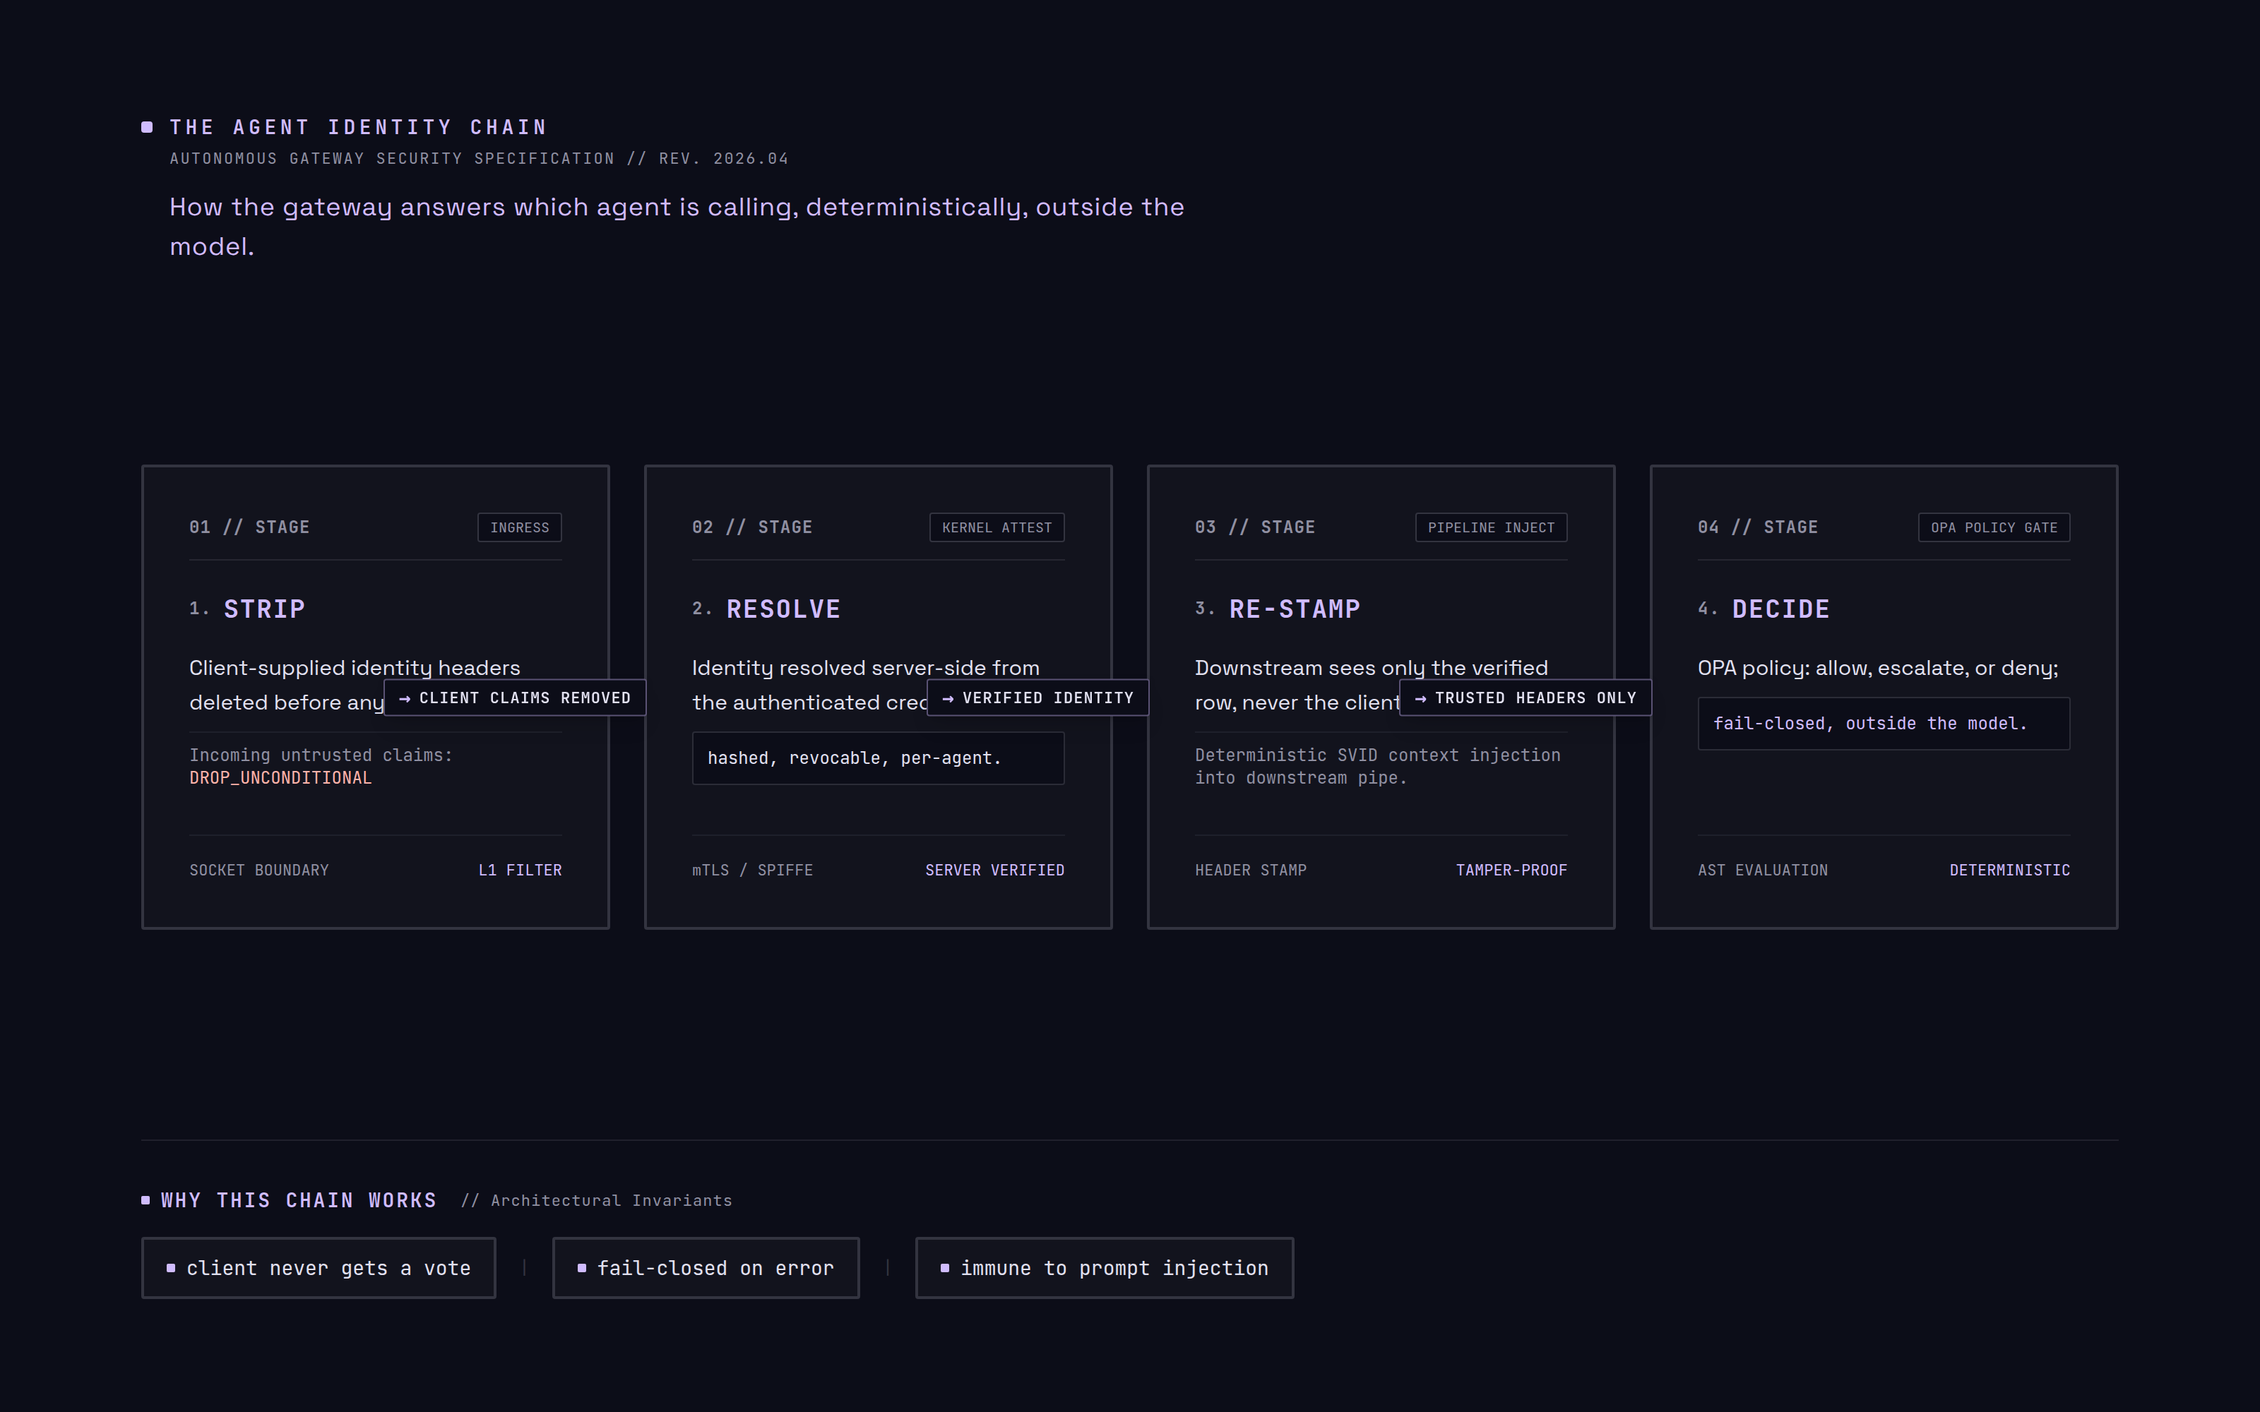
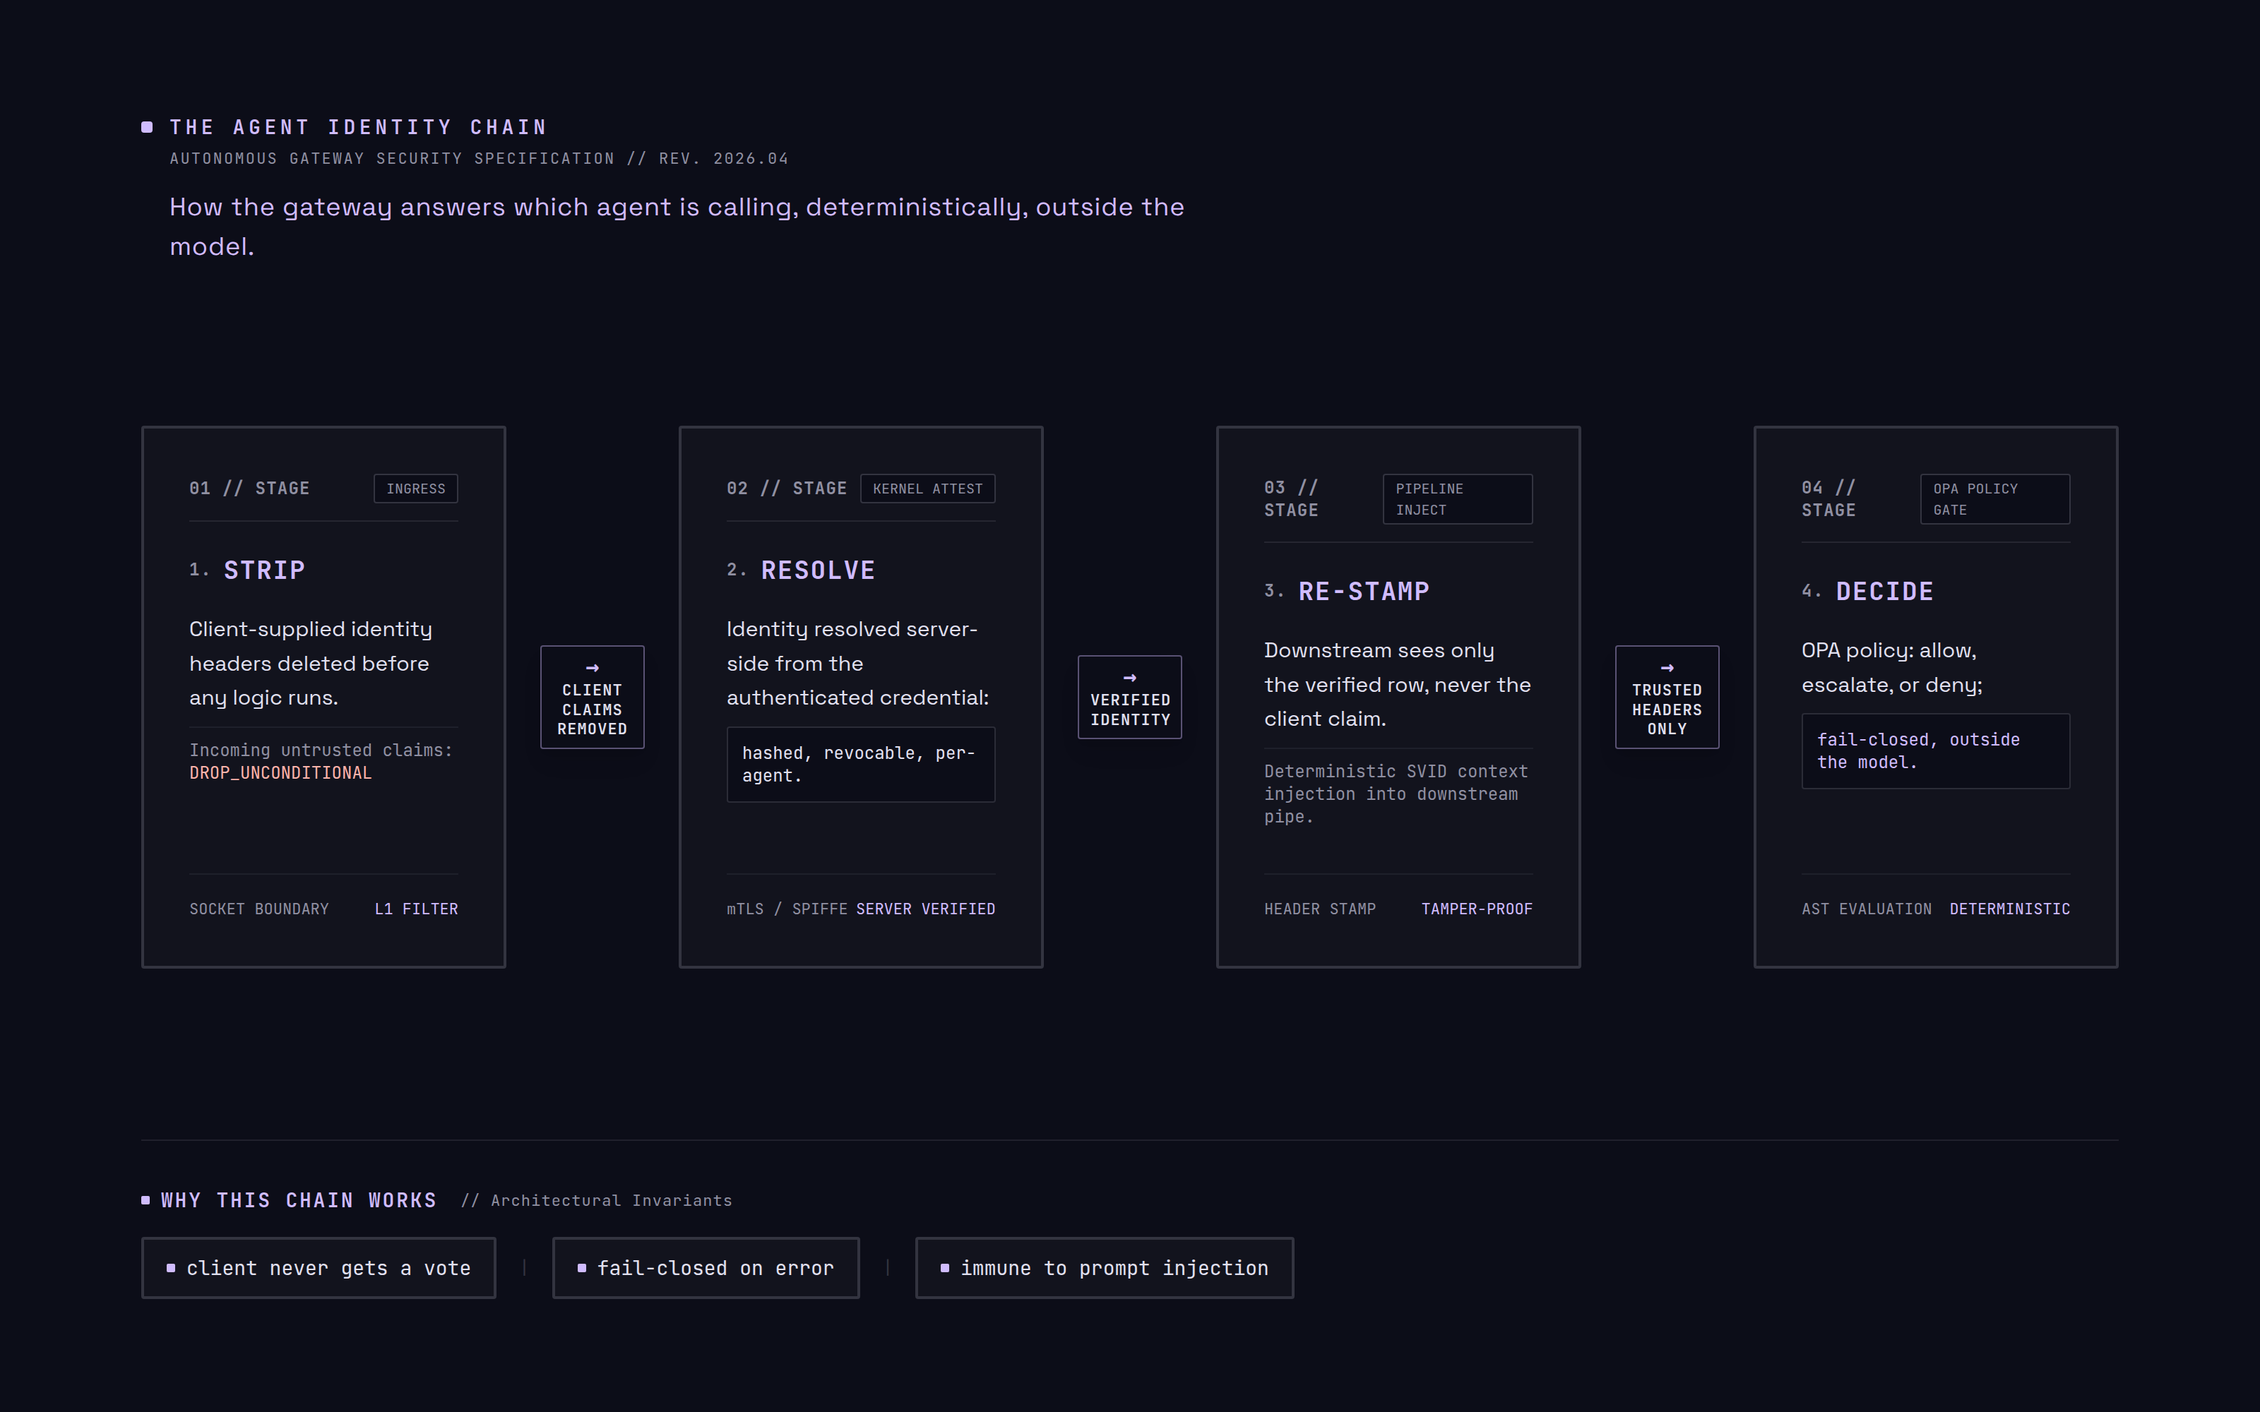
fix(agent-identity-firewalls): identity_chain restructure to 0 overlaps (unmeasured containers, flow arrows instead of absolute overlays)

diff --git a/agent-identity-firewalls/html/identity_chain.html b/agent-identity-firewalls/html/identity_chain.html
@@ -45,15 +45,15 @@
 <style>html, body { background: #0c0d18 !important; margin: 0 !important; }</style></head>
 <body class="min-h-screen bg-[#0c0d18] text-[#e2e1f1] flex flex-col justify-between p-8 md:p-14 lg:p-16 select-none box-border">
 <!-- Main Container -->
-<div class="max-w-[1400px] w-full mx-auto flex flex-col justify-between flex-1 py-4">
+<section class="max-w-[1400px] w-full mx-auto flex flex-col justify-between flex-1 py-4">
 <!-- Top Left Title -->
 <header class="mb-12">
-<div class="flex items-center gap-3">
+<section class="flex items-center gap-3">
 <span class="inline-block w-2 h-2 rounded-[2px] bg-[#d0bcff]"></span>
 <h1 class="text-xs sm:text-sm font-mono uppercase tracking-[0.2em] text-[#d0bcff] font-semibold">
           The Agent Identity Chain
         </h1>
-</div>
+</section>
 <p class="text-[11px] font-mono text-[#9090a2] mt-1 pl-5 uppercase tracking-widest">
         Autonomous Gateway Security Specification // Rev. 2026.04
       </p><p class="text-base sm:text-lg text-[#d2bbff] font-normal tracking-wide mt-3 pl-5 max-w-3xl leading-relaxed">
@@ -61,167 +61,165 @@
       </p>
 </header>
 <!-- Main Diagram Flow: 4 Stage Panels Left to Right -->
-<main class="w-full my-auto">
-<div class="grid grid-cols-1 lg:grid-cols-4 gap-4 xl:gap-6 items-stretch relative">
+<main class="w-full my-auto grid grid-cols-1 lg:grid-cols-[1fr_auto_1fr_auto_1fr_auto_1fr] gap-4 xl:gap-6 items-stretch">
 <!-- Stage 1: STRIP -->
-<div class="relative flex flex-col justify-between bg-[#12131d] border-2 border-[#333440] rounded-[2px] p-6 lg:p-7 xl:p-8 transition-all hover:border-[#d0bcff]/50 group">
-<div>
+<section class="flex flex-col justify-between bg-[#12131d] border-2 border-[#333440] rounded-[2px] p-6 lg:p-7 xl:p-8 transition-all hover:border-[#d0bcff]/50 group">
+<section>
 <!-- Step index & header -->
-<div class="flex items-center justify-between border-b border-[#333440]/60 pb-3 mb-5">
+<section class="flex items-center justify-between border-b border-[#333440]/60 pb-3 mb-5">
 <span class="font-mono text-xs font-bold text-[#9090a2] tracking-wider">01 // STAGE</span>
 <span class="font-mono text-[10px] text-[#9090a2] px-2 py-0.5 bg-[#0c0d18] border border-[#333440] rounded-[2px]">INGRESS</span>
-</div>
+</section>
 <h2 class="font-mono text-base xl:text-lg font-bold uppercase tracking-wider text-[#d0bcff] mb-4 flex items-center gap-2">
-<span class="text-xs text-[#9090a2]">1.</span> STRIP
+<small class="text-xs text-[#9090a2]">1.</small> STRIP
             </h2>
 <!-- Body lines -->
-<div class="space-y-2 text-sm xl:text-[15px] leading-relaxed text-[#e2e1f1] font-normal">
+<section class="space-y-2 text-sm xl:text-[15px] leading-relaxed text-[#e2e1f1] font-normal">
 <p>
                 Client-supplied identity headers deleted before any logic runs.
               </p>
 <p class="text-xs font-mono text-[#9090a2] pt-2 border-t border-[#333440]/40">
-                Incoming untrusted claims: <span class="text-[#ffb4ab]">DROP_UNCONDITIONAL</span>
+                Incoming untrusted claims: <small class="text-xs text-[#ffb4ab]">DROP_UNCONDITIONAL</small>
 </p>
-</div>
-</div>
+</section>
+</section>
 <!-- Bottom micro-spec badge -->
-<div class="mt-8 pt-4 border-t border-[#333440]/40 flex items-center justify-between text-[11px] font-mono text-[#9090a2]">
+<section class="mt-8 pt-4 border-t border-[#333440]/40 flex items-center justify-between text-[11px] font-mono text-[#9090a2]">
 <span>SOCKET BOUNDARY</span>
 <span class="text-[#d0bcff]">L1 FILTER</span>
-</div>
+</section>
+</section>
 <!-- Desktop Arrow Connector to next stage -->
-<div class="hidden lg:flex flex-col items-center justify-center absolute -right-6 xl:-right-7 top-1/2 -translate-y-1/2 z-30 pointer-events-none select-none drop-shadow">
-<div class="flex items-center gap-1.5 px-2.5 py-1 bg-[#0c0d18] border border-[#d0bcff]/40 rounded-[2px] shadow-lg">
-<span class="text-[#d0bcff] font-mono text-sm leading-none font-bold">→</span>
-<span class="font-mono text-[10px] xl:text-[11px] text-[#e2e1f1] uppercase tracking-wider font-semibold whitespace-nowrap">client claims removed</span>
-</div>
-</div>
-</div>
+<section class="hidden lg:flex flex-col items-center justify-center self-center pointer-events-none select-none">
+<section class="flex flex-col items-center gap-0.5 px-2 py-1.5 bg-[#0c0d18] border border-[#d0bcff]/40 rounded-[2px] shadow-lg">
+<span class="text-[#d0bcff] font-mono text-base leading-none font-bold">&#8594;</span>
+<span class="font-mono text-[10px] xl:text-[11px] text-[#e2e1f1] uppercase tracking-wider font-semibold text-center leading-tight max-w-[56px]">client claims removed</span>
+</section>
+</section>
 <!-- Stage 2: RESOLVE -->
-<div class="relative flex flex-col justify-between bg-[#12131d] border-2 border-[#333440] rounded-[2px] p-6 lg:p-7 xl:p-8 transition-all hover:border-[#d0bcff]/50 group">
-<div>
+<section class="flex flex-col justify-between bg-[#12131d] border-2 border-[#333440] rounded-[2px] p-6 lg:p-7 xl:p-8 transition-all hover:border-[#d0bcff]/50 group">
+<section>
 <!-- Step index & header -->
-<div class="flex items-center justify-between border-b border-[#333440]/60 pb-3 mb-5">
+<section class="flex items-center justify-between border-b border-[#333440]/60 pb-3 mb-5">
 <span class="font-mono text-xs font-bold text-[#9090a2] tracking-wider">02 // STAGE</span>
 <span class="font-mono text-[10px] text-[#9090a2] px-2 py-0.5 bg-[#0c0d18] border border-[#333440] rounded-[2px]">KERNEL ATTEST</span>
-</div>
+</section>
 <h2 class="font-mono text-base xl:text-lg font-bold uppercase tracking-wider text-[#d0bcff] mb-4 flex items-center gap-2">
-<span class="text-xs text-[#9090a2]">2.</span> RESOLVE
+<small class="text-xs text-[#9090a2]">2.</small> RESOLVE
             </h2>
 <!-- Body lines -->
-<div class="space-y-2 text-sm xl:text-[15px] leading-relaxed text-[#e2e1f1] font-normal">
+<section class="space-y-2 text-sm xl:text-[15px] leading-relaxed text-[#e2e1f1] font-normal">
 <p>
                 Identity resolved server-side from the authenticated credential:
               </p>
 <p class="font-mono text-xs text-[#e2e1f1] bg-[#0c0d18] p-2.5 rounded-[2px] border border-[#333440]/80">
                 hashed, revocable, per-agent.
               </p>
-</div>
-</div>
+</section>
+</section>
 <!-- Bottom micro-spec badge -->
-<div class="mt-8 pt-4 border-t border-[#333440]/40 flex items-center justify-between text-[11px] font-mono text-[#9090a2]">
+<section class="mt-8 pt-4 border-t border-[#333440]/40 flex items-center justify-between text-[11px] font-mono text-[#9090a2]">
 <span>mTLS / SPIFFE</span>
 <span class="text-[#d0bcff]">SERVER VERIFIED</span>
-</div>
+</section>
+</section>
 <!-- Desktop Arrow Connector to next stage -->
-<div class="hidden lg:flex flex-col items-center justify-center absolute -right-6 xl:-right-7 top-1/2 -translate-y-1/2 z-30 pointer-events-none select-none drop-shadow">
-<div class="flex items-center gap-1.5 px-2.5 py-1 bg-[#0c0d18] border border-[#d0bcff]/40 rounded-[2px] shadow-lg">
-<span class="text-[#d0bcff] font-mono text-sm leading-none font-bold">→</span>
-<span class="font-mono text-[10px] xl:text-[11px] text-[#e2e1f1] uppercase tracking-wider font-semibold whitespace-nowrap">verified identity</span>
-</div>
-</div>
-</div>
+<section class="hidden lg:flex flex-col items-center justify-center self-center pointer-events-none select-none">
+<section class="flex flex-col items-center gap-0.5 px-2 py-1.5 bg-[#0c0d18] border border-[#d0bcff]/40 rounded-[2px] shadow-lg">
+<span class="text-[#d0bcff] font-mono text-base leading-none font-bold">&#8594;</span>
+<span class="font-mono text-[10px] xl:text-[11px] text-[#e2e1f1] uppercase tracking-wider font-semibold text-center leading-tight max-w-[56px]">verified identity</span>
+</section>
+</section>
 <!-- Stage 3: RE-STAMP -->
-<div class="relative flex flex-col justify-between bg-[#12131d] border-2 border-[#333440] rounded-[2px] p-6 lg:p-7 xl:p-8 transition-all hover:border-[#d0bcff]/50 group">
-<div>
+<section class="flex flex-col justify-between bg-[#12131d] border-2 border-[#333440] rounded-[2px] p-6 lg:p-7 xl:p-8 transition-all hover:border-[#d0bcff]/50 group">
+<section>
 <!-- Step index & header -->
-<div class="flex items-center justify-between border-b border-[#333440]/60 pb-3 mb-5">
+<section class="flex items-center justify-between border-b border-[#333440]/60 pb-3 mb-5">
 <span class="font-mono text-xs font-bold text-[#9090a2] tracking-wider">03 // STAGE</span>
 <span class="font-mono text-[10px] text-[#9090a2] px-2 py-0.5 bg-[#0c0d18] border border-[#333440] rounded-[2px]">PIPELINE INJECT</span>
-</div>
+</section>
 <h2 class="font-mono text-base xl:text-lg font-bold uppercase tracking-wider text-[#d0bcff] mb-4 flex items-center gap-2">
-<span class="text-xs text-[#9090a2]">3.</span> RE-STAMP
+<small class="text-xs text-[#9090a2]">3.</small> RE-STAMP
             </h2>
 <!-- Body lines -->
-<div class="space-y-2 text-sm xl:text-[15px] leading-relaxed text-[#e2e1f1] font-normal">
+<section class="space-y-2 text-sm xl:text-[15px] leading-relaxed text-[#e2e1f1] font-normal">
 <p>
                 Downstream sees only the verified row, never the client claim.
               </p>
 <p class="text-xs font-mono text-[#9090a2] pt-2 border-t border-[#333440]/40">
                 Deterministic SVID context injection into downstream pipe.
               </p>
-</div>
-</div>
+</section>
+</section>
 <!-- Bottom micro-spec badge -->
-<div class="mt-8 pt-4 border-t border-[#333440]/40 flex items-center justify-between text-[11px] font-mono text-[#9090a2]">
+<section class="mt-8 pt-4 border-t border-[#333440]/40 flex items-center justify-between text-[11px] font-mono text-[#9090a2]">
 <span>HEADER STAMP</span>
 <span class="text-[#d0bcff]">TAMPER-PROOF</span>
-</div>
+</section>
+</section>
 <!-- Desktop Arrow Connector to next stage -->
-<div class="hidden lg:flex flex-col items-center justify-center absolute -right-6 xl:-right-7 top-1/2 -translate-y-1/2 z-30 pointer-events-none select-none drop-shadow">
-<div class="flex items-center gap-1.5 px-2.5 py-1 bg-[#0c0d18] border border-[#d0bcff]/40 rounded-[2px] shadow-lg">
-<span class="text-[#d0bcff] font-mono text-sm leading-none font-bold">→</span>
-<span class="font-mono text-[10px] xl:text-[11px] text-[#e2e1f1] uppercase tracking-wider font-semibold whitespace-nowrap">trusted headers only</span>
-</div>
-</div>
-</div>
+<section class="hidden lg:flex flex-col items-center justify-center self-center pointer-events-none select-none">
+<section class="flex flex-col items-center gap-0.5 px-2 py-1.5 bg-[#0c0d18] border border-[#d0bcff]/40 rounded-[2px] shadow-lg">
+<span class="text-[#d0bcff] font-mono text-base leading-none font-bold">&#8594;</span>
+<span class="font-mono text-[10px] xl:text-[11px] text-[#e2e1f1] uppercase tracking-wider font-semibold text-center leading-tight max-w-[56px]">trusted headers only</span>
+</section>
+</section>
 <!-- Stage 4: DECIDE -->
-<div class="relative flex flex-col justify-between bg-[#12131d] border-2 border-[#333440] rounded-[2px] p-6 lg:p-7 xl:p-8 transition-all hover:border-[#d0bcff]/50 group">
-<div>
+<section class="flex flex-col justify-between bg-[#12131d] border-2 border-[#333440] rounded-[2px] p-6 lg:p-7 xl:p-8 transition-all hover:border-[#d0bcff]/50 group">
+<section>
 <!-- Step index & header -->
-<div class="flex items-center justify-between border-b border-[#333440]/60 pb-3 mb-5">
+<section class="flex items-center justify-between border-b border-[#333440]/60 pb-3 mb-5">
 <span class="font-mono text-xs font-bold text-[#9090a2] tracking-wider">04 // STAGE</span>
 <span class="font-mono text-[10px] text-[#9090a2] px-2 py-0.5 bg-[#0c0d18] border border-[#333440] rounded-[2px]">OPA POLICY GATE</span>
-</div>
+</section>
 <h2 class="font-mono text-base xl:text-lg font-bold uppercase tracking-wider text-[#d0bcff] mb-4 flex items-center gap-2">
-<span class="text-xs text-[#9090a2]">4.</span> DECIDE
+<small class="text-xs text-[#9090a2]">4.</small> DECIDE
             </h2>
 <!-- Body lines -->
-<div class="space-y-2 text-sm xl:text-[15px] leading-relaxed text-[#e2e1f1] font-normal">
+<section class="space-y-2 text-sm xl:text-[15px] leading-relaxed text-[#e2e1f1] font-normal">
 <p>
                 OPA policy: allow, escalate, or deny;
               </p>
 <p class="font-mono text-xs text-[#d0bcff] bg-[#0c0d18] p-2.5 rounded-[2px] border border-[#333440]/80">
                 fail-closed, outside the model.
               </p>
-</div>
-</div>
+</section>
+</section>
 <!-- Bottom micro-spec badge -->
-<div class="mt-8 pt-4 border-t border-[#333440]/40 flex items-center justify-between text-[11px] font-mono text-[#9090a2]">
+<section class="mt-8 pt-4 border-t border-[#333440]/40 flex items-center justify-between text-[11px] font-mono text-[#9090a2]">
 <span>AST EVALUATION</span>
 <span class="text-[#d0bcff]">DETERMINISTIC</span>
-</div>
-</div>
-</div>
+</section>
+</section>
 </main>
 <!-- Bottom Architectural Invariant Chips -->
 <footer class="mt-14 pt-8 border-t border-[#333440]/50">
-<div class="flex items-center gap-2 mb-4">
+<section class="flex items-center gap-2 mb-4">
 <span class="w-1.5 h-1.5 rounded-[1px] bg-[#d0bcff]"></span>
 <h3 class="font-mono text-xs sm:text-sm font-semibold uppercase tracking-widest text-[#d0bcff]">
           Why this chain works
         </h3>
 <span class="text-[11px] font-mono text-[#9090a2] tracking-wider pl-2 hidden sm:inline">// Architectural Invariants</span>
-</div><div class="flex flex-wrap items-center justify-center sm:justify-start gap-3 xl:gap-4">
+</section><ul class="flex flex-wrap items-center justify-center sm:justify-start gap-3 xl:gap-4">
 <!-- Chip 1 -->
-<div class="inline-flex items-center gap-2 px-4 py-2.5 bg-[#12131d] border-2 border-[#333440] rounded-[2px] text-xs xl:text-sm font-mono text-[#e2e1f1]">
+<li class="inline-flex items-center gap-2 px-4 py-2.5 bg-[#12131d] border-2 border-[#333440] rounded-[2px] text-xs xl:text-sm font-mono text-[#e2e1f1]">
 <span class="w-1.5 h-1.5 rounded-[1px] bg-[#d0bcff]"></span>
 <span>client never gets a vote</span>
-</div>
+</li>
 <span class="hidden sm:inline text-[#333440] font-mono text-xs">|</span>
 <!-- Chip 2 -->
-<div class="inline-flex items-center gap-2 px-4 py-2.5 bg-[#12131d] border-2 border-[#333440] rounded-[2px] text-xs xl:text-sm font-mono text-[#e2e1f1]">
+<li class="inline-flex items-center gap-2 px-4 py-2.5 bg-[#12131d] border-2 border-[#333440] rounded-[2px] text-xs xl:text-sm font-mono text-[#e2e1f1]">
 <span class="w-1.5 h-1.5 rounded-[1px] bg-[#d0bcff]"></span>
 <span>fail-closed on error</span>
-</div>
+</li>
 <span class="hidden sm:inline text-[#333440] font-mono text-xs">|</span>
 <!-- Chip 3 -->
-<div class="inline-flex items-center gap-2 px-4 py-2.5 bg-[#12131d] border-2 border-[#333440] rounded-[2px] text-xs xl:text-sm font-mono text-[#e2e1f1]">
+<li class="inline-flex items-center gap-2 px-4 py-2.5 bg-[#12131d] border-2 border-[#333440] rounded-[2px] text-xs xl:text-sm font-mono text-[#e2e1f1]">
 <span class="w-1.5 h-1.5 rounded-[1px] bg-[#d0bcff]"></span>
 <span>immune to prompt injection</span>
-</div>
-</div>
+</li>
+</ul>
 </footer>
-</div>
+</section>
 </body>
 </html>
